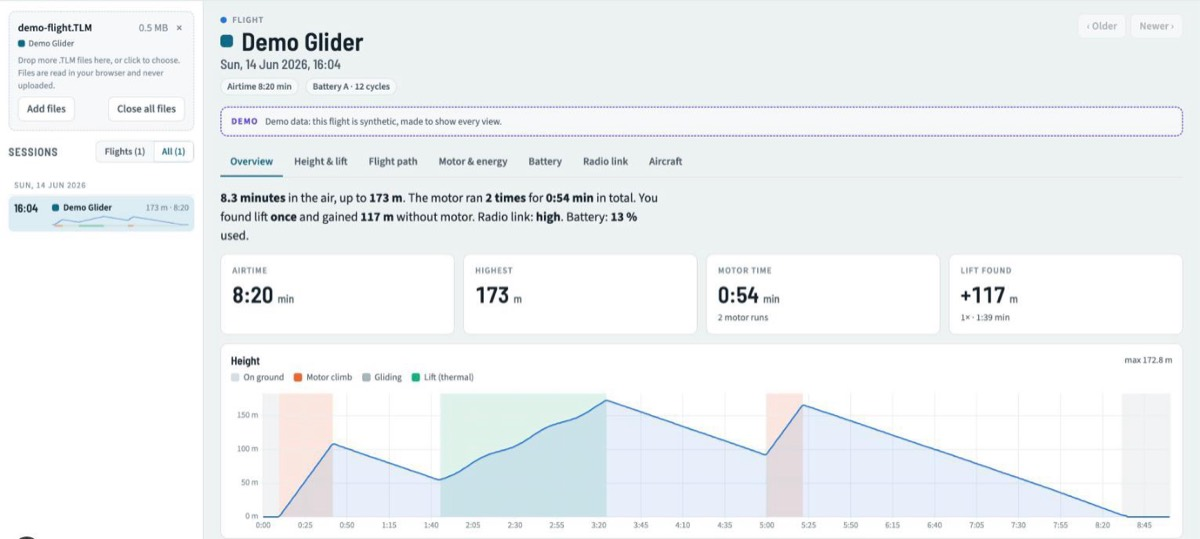
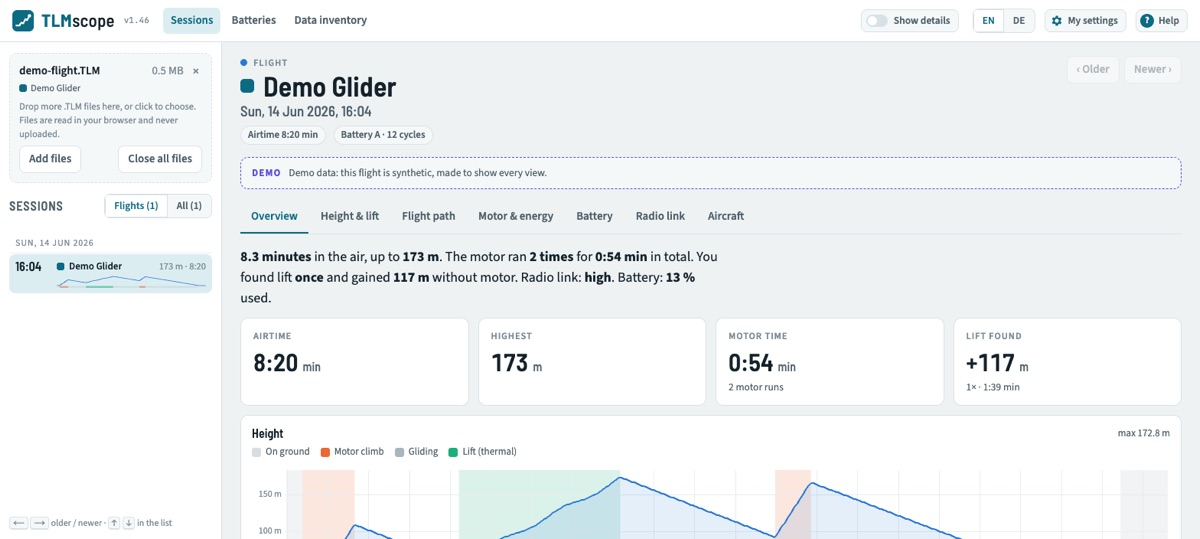
Version 1.47: current screenshots
Screenshots of the overview and the flight path, in the README and on the
guide pages (English and German), show the current version: header with
My settings, model badge and the map tools. Alt texts match what they show.

diff --git a/src/seo/content/de.ts b/src/seo/content/de.ts
@@ -298,7 +298,7 @@ export const de: Content = {
               "Wähle links in der Liste eine Sitzung. Auf dem Handy ist die Liste eine Auswahl oben. Jeder Start des Empfängers ist eine Sitzung.",
               "„Flüge“ zeigt nur echte Flüge, „Alle“ auch Bodentests und kurze Einschaltphasen. Sind mehrere Modelle geladen, kannst du die Liste auf ein Modell beschränken.",
             ] },
-            { t: "img", name: "overview", alt: "TLMscope-Übersicht eines Demo-Flugs: Zusammenfassung, Kennzahlen, Höhenprofil mit Motorsteigflügen und Aufwind sowie die Bewertungen im Bereich „Zustand“", caption: "Die Übersicht eines Flugs: Zusammenfassung, Kennzahlen, Höhenprofil und Zustand." },
+            { t: "img", name: "overview", alt: "TLMscope-Übersicht eines Demo-Flugs: Zusammenfassung, Kennzahlen und Höhenprofil mit Motorsteigflügen, Aufwind und Gleitflug", caption: "Die Übersicht eines Flugs: Zusammenfassung, Kennzahlen und Höhenprofil." },
           ],
         },
         {

diff --git a/src/seo/content/en.ts b/src/seo/content/en.ts
@@ -298,7 +298,7 @@ export const en: Content = {
               "Pick a session in the list on the left. On a phone the list is a picker at the top. Each power-up of the receiver is one session.",
               "“Flights” shows real flights only, “All” also ground tests and short power-ups. With several models loaded, you can limit the list to one model.",
             ] },
-            { t: "img", name: "overview", alt: "TLMscope overview of a demo flight: summary sentence, key numbers, height profile with motor climbs and lift, and the health check ratings", caption: "The overview of a flight: summary, key numbers, height profile and health check." },
+            { t: "img", name: "overview", alt: "TLMscope overview of a demo flight: summary sentence, key numbers and the height profile with motor climbs, lift and gliding", caption: "The overview of a flight: summary, key numbers and height profile." },
           ],
         },
         {

diff --git a/README.md b/README.md
@@ -8,7 +8,7 @@ Files are read in your browser and never uploaded. Only the map for GPS logs loa
 
 **Open the app: [tlmscope.andreasknoor.com](https://tlmscope.andreasknoor.com)**, or try it with the built-in demo flight.
 
-![TLMscope showing the demo flight: summary sentence, key numbers, height profile with motor climbs, lift and gliding, and the health check](docs/images/overview.jpg)
+![TLMscope showing the demo flight: summary sentence, key numbers and the height profile with motor climbs, lift and gliding](docs/images/overview.jpg)
 
 > **Status:** working app, published on Vercel; every push to `main` goes live (see [the plan](docs/implementation-plan.md)). More screenshots are at the end of this page.
 
@@ -275,4 +275,4 @@ Sources: Spektrum `spektrumTelemetrySensors.h` structure layouts, the project's 
 
 All screenshots show the synthetic demo flight, not real pilot data. The overview is at the top of this page.
 
-![Flight path: map with the 3D path coloured by phase, distance and speed, and a height chart that moves the marker on the map](docs/images/flight-path.jpg)
+![Flight path: map with the 3D path coloured by phase, thermal centres, and the replay controls below](docs/images/flight-path.jpg)
